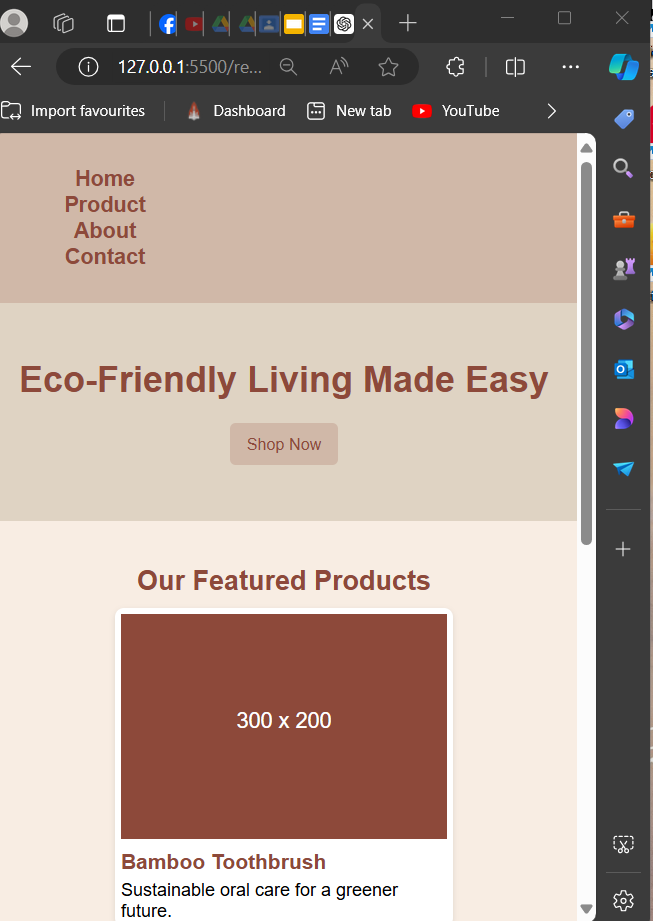
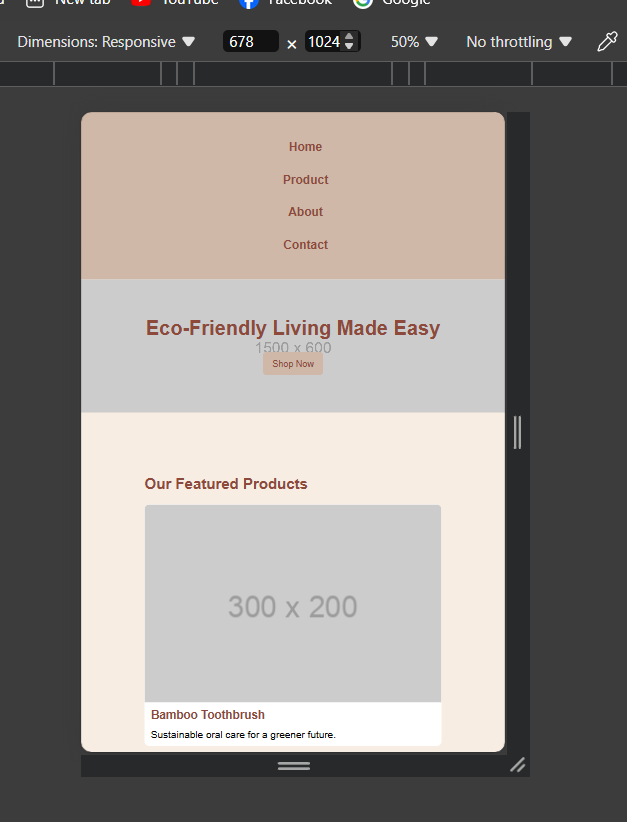
ex11

diff --git a/responsive/eco-friendly-landing-page-html.html b/responsive/eco-friendly-landing-page-html.html
@@ -14,15 +14,17 @@
         }
         header {
             background-color: #D0B8A8;
-            
             padding: 10px;
             font-size: larger;
         }
         nav  {
             display: grid;
             flex-direction: column;
-            text-align: center;
             
+            
+        }
+        nav ul {
+            text-align: center;
         }
         nav a {
             text-decoration: none;
@@ -38,19 +40,22 @@
             
         }
 
-      .hero {
-    background-color: #DFD3C3;
+      #hero {
+    background-image: url("https://via.placeholder.com/1500x600");
+    background-size: cover;
+    background-position: center;
     text-align: center;
-    padding: 50px 20px;
+    padding: 60px 20px;
 }
 
-.hero h1 {
+#hero h1 {
     font-size: 2.5em;
     margin: 0;
     color: #8D493A;
+    
 }
 
-.hero button {
+#hero button {
     margin-top: 20px;
     padding: 10px 20px;
     font-size: 1em;
@@ -61,74 +66,77 @@
     border-radius: 5px;
 }
 
-.products {
-    text-align: center;
-    padding: 20px 0;
+#products {
+    margin-top: 100px;
+    padding: 0 15%;
+
 }
 
-.products h2 {
+
+#products h2 {
     margin-bottom: 0px;
     color: #8D493A;
+    margin-left: 0%;
 }
 
 .product {
-    display: inline-block;
-    width: 300px;
-    margin: 10px;
-    vertical-align: top;
-    background: #fff;
+    display: flex;
+    flex-direction: column;
+    text-align: left;
+    background-color: white;
     border-radius: 8px;
-    box-shadow: 0 2px 5px rgba(0, 0, 0, 0.1);
-    flex: 1 1 calc(33.333% - 20px);
-    margin: 10px;
-    box-sizing: border-box;
-    padding: 5px;
-   
-    
-
 }
-.image-placeholder {
-    background-color: #8D493A;
-    width: 290px;
-    height: 200px;
-    line-height: 190px;
-    color: #ffffff;
-    text-align: center;
-    font-size: 1.2em;
+#product-grid {
+    display: grid;
+    grid-gap: 30px;
+    margin-top: 20px;
+}
+img {
+    width: 100%;
+    border-top-left-radius: 8px;
+    border-top-right-radius: 8px;
 }
 
 .product h3 {
-    margin: 10px 0 5px;
+    margin: 10px;
+    margin-top: 10px;
     color: #8D493A;
     text-align: left;
+    
 }
 
 .product p {
-    margin: 0;
+    margin: 10px;
+    margin-top: 0px;
     color: black;
     text-align: left;
 }
 @media (width > 1024px) {
-        .products{
+        #product-grid {
+        display: grid;
         grid-template-columns: repeat(3,1fr);
         }
         
     }
 @media (min-width: 768px) and (max-width: 1023px) {
-        .products{
+        #product-grid {
+        display: grid;
         grid-template-columns: repeat(2,1fr);
         }
     }
 
 @media (width < 768px) {
-        nav {
-        grid-template-columns: repeat(10,1fr);
-        text-align: center;
+        nav ul{
+            display: flex;
+            flex-direction: column;
         }
-       .hero h1 {
+        nav li {
+            display: block;
+        }
+       #hero h1 {
         font-size: 2em;
        }
-        .hero button {
+        #hero button {
         padding: 10px 15px;
         font-size: 0.9em;
     }
@@ -147,27 +155,29 @@
             </nav>
         </header>
         <main>
-            <section class="hero">
+            <section id="hero">
                 <h1>Eco-Friendly Living Made Easy</h1>
                 <button>Shop Now</button>
             </section>
-            <section class="products">
+            <section id="products">
                 <h2>Our Featured Products</h2>
+                <div id="product-grid">
                 <div class="product">
-                    <div class="image-placeholder">300 x 200</div>
+                    <img src="https://via.placeholder.com/300x200" alt="Bamboo Toothbrush" />
                     <h3>Bamboo Toothbrush</h3>
                     <p>Sustainable oral care for a greener future.</p>
                 </div>
                 <div class="product">
-                    <div class="image-placeholder">300 x 200</div>
+                    <img src="https://via.placeholder.com/300x200" alt="Reusable Water Bottle" />
                     <h3>Reusable Water Bottle</h3>
                     <p>Stay hydrated while reducing plastic waste.</p>
                 </div>
                 <div class="product">
-                    <div class="image-placeholder">300 x 200</div>
+                    <img src="https://via.placeholder.com/300x200" alt="Organic Cotton Tote Bag" />
                     <h3>Organic Cotton Tote Bag</h3>
                     <p>Shop in style with our durable, eco-friendly bags.</p>
                 </div>
+            </div>
             </section>
         </main>
     </body>

diff --git a/responsive/product-comparison-starter.html b/responsive/product-comparison-starter.html
@@ -1,0 +1,167 @@
+<!DOCTYPE html>
+<html lang="en">
+  <head>
+    <meta charset="UTF-8" />
+    <title>Smartphone Comparison</title>
+    <style>
+      body {
+            font-family: Arial, sans-serif;
+            margin: 0;
+            background-color: #efefef;
+        }
+        header {
+            background-color: #D0B8A8;
+            padding: 10px;
+            font-size: larger;
+        }
+        nav ul {
+            text-align: center;
+            display: flex;
+            justify-content: space-around;
+        }
+        nav a {
+            text-decoration: none;
+            color: #8D493A;
+            font-weight: bold;
+        }
+        nav li {
+            list-style-type: none; 
+        }
+        main {
+            padding-left: 5%;
+            padding-right: 5%;
+            padding-top: 35px;
+        }
+        main h1{
+            text-align: center;
+            
+        }
+        #products {
+            display: grid;
+            grid-gap: 3rem;
+            
+            
+        }
+        .phone {
+            display: flex;
+            flex-direction: column;
+            text-align: center;
+            background-color: #fff;
+            border-radius: 3%;
+            
+        }
+        .product-image {
+            background-color: #ddd;
+            height: 200px;
+            width: 250px;
+            margin-bottom: 5rem;
+            display: flex;
+            align-items: center;
+            justify-content: center;
+            color: #666;
+            font-size: 1.5rem;
+            
+        }
+        .phone h2 {
+            margin: 0;
+            color: #333333;
+            text-align: center;
+        }
+        .comparison {
+            padding: 2rem;
+            overflow-x: auto;
+        }
+
+        table {
+            width: 100%;
+            border-collapse: collapse;
+        }
+
+        th, td {
+            border: 1px solid #ddd;
+            padding: 0.5rem;
+            text-align: left;
+        }
+
+        th {
+            background-color: #333;
+            color: #fff;
+        }
+        @media (width > 1024px) {
+            #products {
+                grid-template-columns: repeat(3,1fr);
+                }
+            }
+           
+        @media (min-width: 768px) and (max-width: 1023px) {
+            #products {
+                grid-template-columns: repeat(2,1fr);
+                }
+            }
+        @media (width < 768px) {
+            #products {
+                grid-template-columns:1fr;
+                }
+            }     
+    </style>
+  </head>
+  <body>
+    <header>
+      <nav>
+        <ul>
+          <li><a href="#products">Products</a></li>
+          <li><a href="#comparison">Comparison</a></li>
+          <li><a href="#features">Features</a></li>
+        </ul>
+      </nav>
+    </header>
+
+    <main>
+      <h1>Smartphone Comparison</h1>
+      <section id="products">
+        <div class="phone">
+            <div class="product-image">Phone A</div>
+            <h2>Phone A</h2>
+            <p>High-end smartphone with advanced camera features.</p>
+        </div>
+        <div class="phone">
+            <div class="product-image">Phone B</div>
+            <h2>Phone B</h2>
+            <p>Mid-range smartphone with excellent battery life.</p>
+        </div>
+        <div class="phone">
+            <div class="product-image">Phone C</div>
+            <h2>Phone C</h2>
+            <p>Budget-friendly smartphone with solid performance.</p>
+        </div>
+      </section>
+
+      <section id="comparison">
+        <h2>Detailed Comparison</h2>
+        <table>
+            <thead>
+                <tr>
+                    <th>Feature</th>
+                    <th>Phone A</th>
+                    <th>Phone B</th>
+                    <th>Phone C</th>
+                </tr>
+            </thead>
+            <tbody>
+                <tr>
+                    <td>Screen Size</td>
+                    <td>6.5"</td>
+                    <td>6.2"</td>
+                    <td>5.8"</td>
+                </tr>
+            </tbody>
+        </table>
+      </section>
+
+      <section id="features">
+        <h2>Key Features</h2>
+        <!-- Add feature list here -->
+      </section>
+    </main>
+  </body>
+</html>
